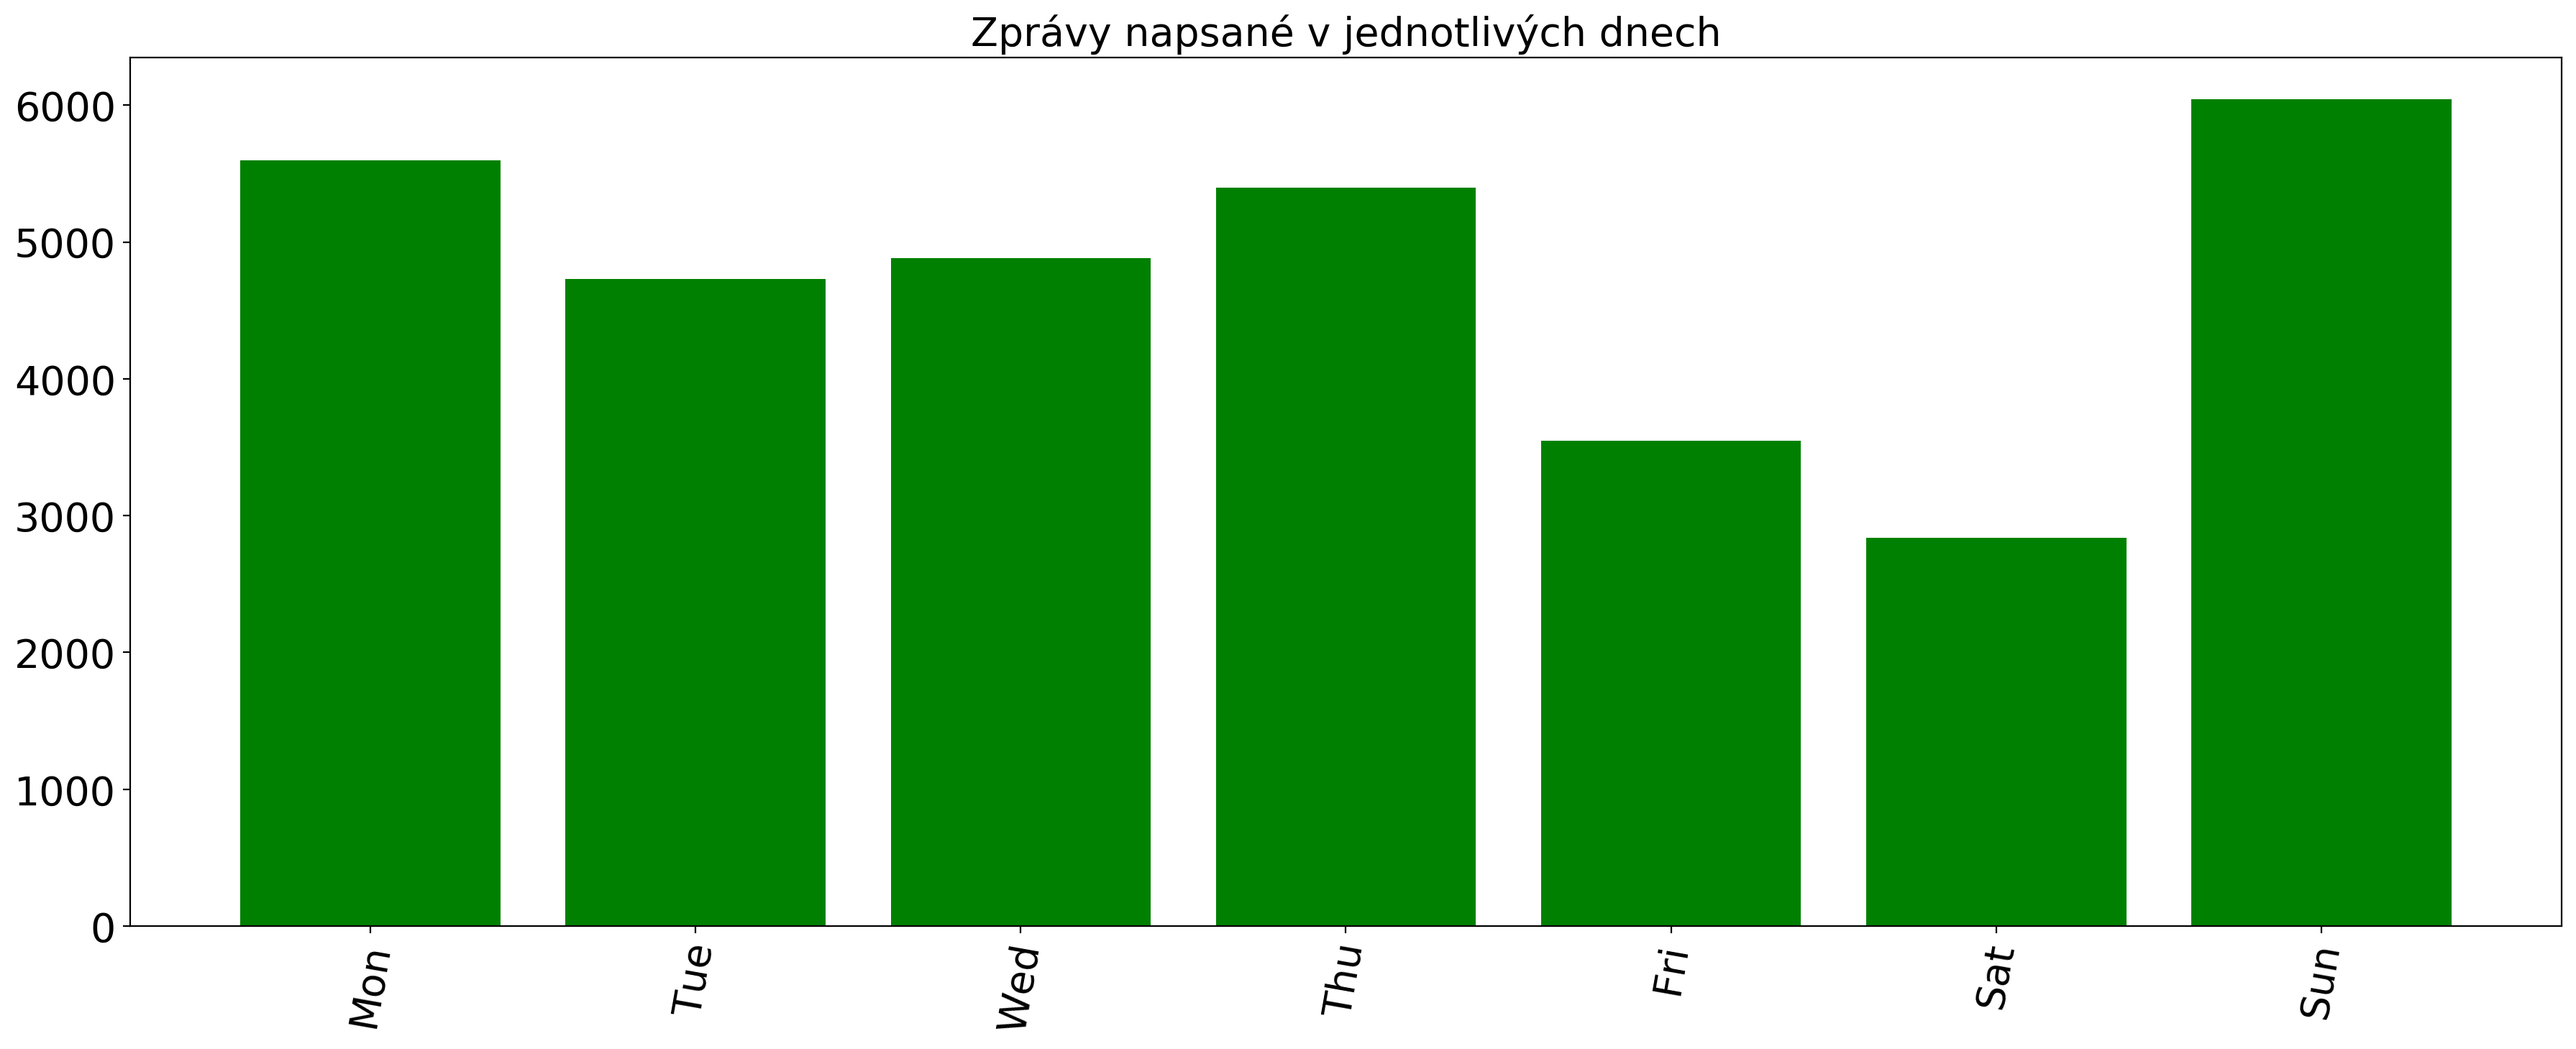
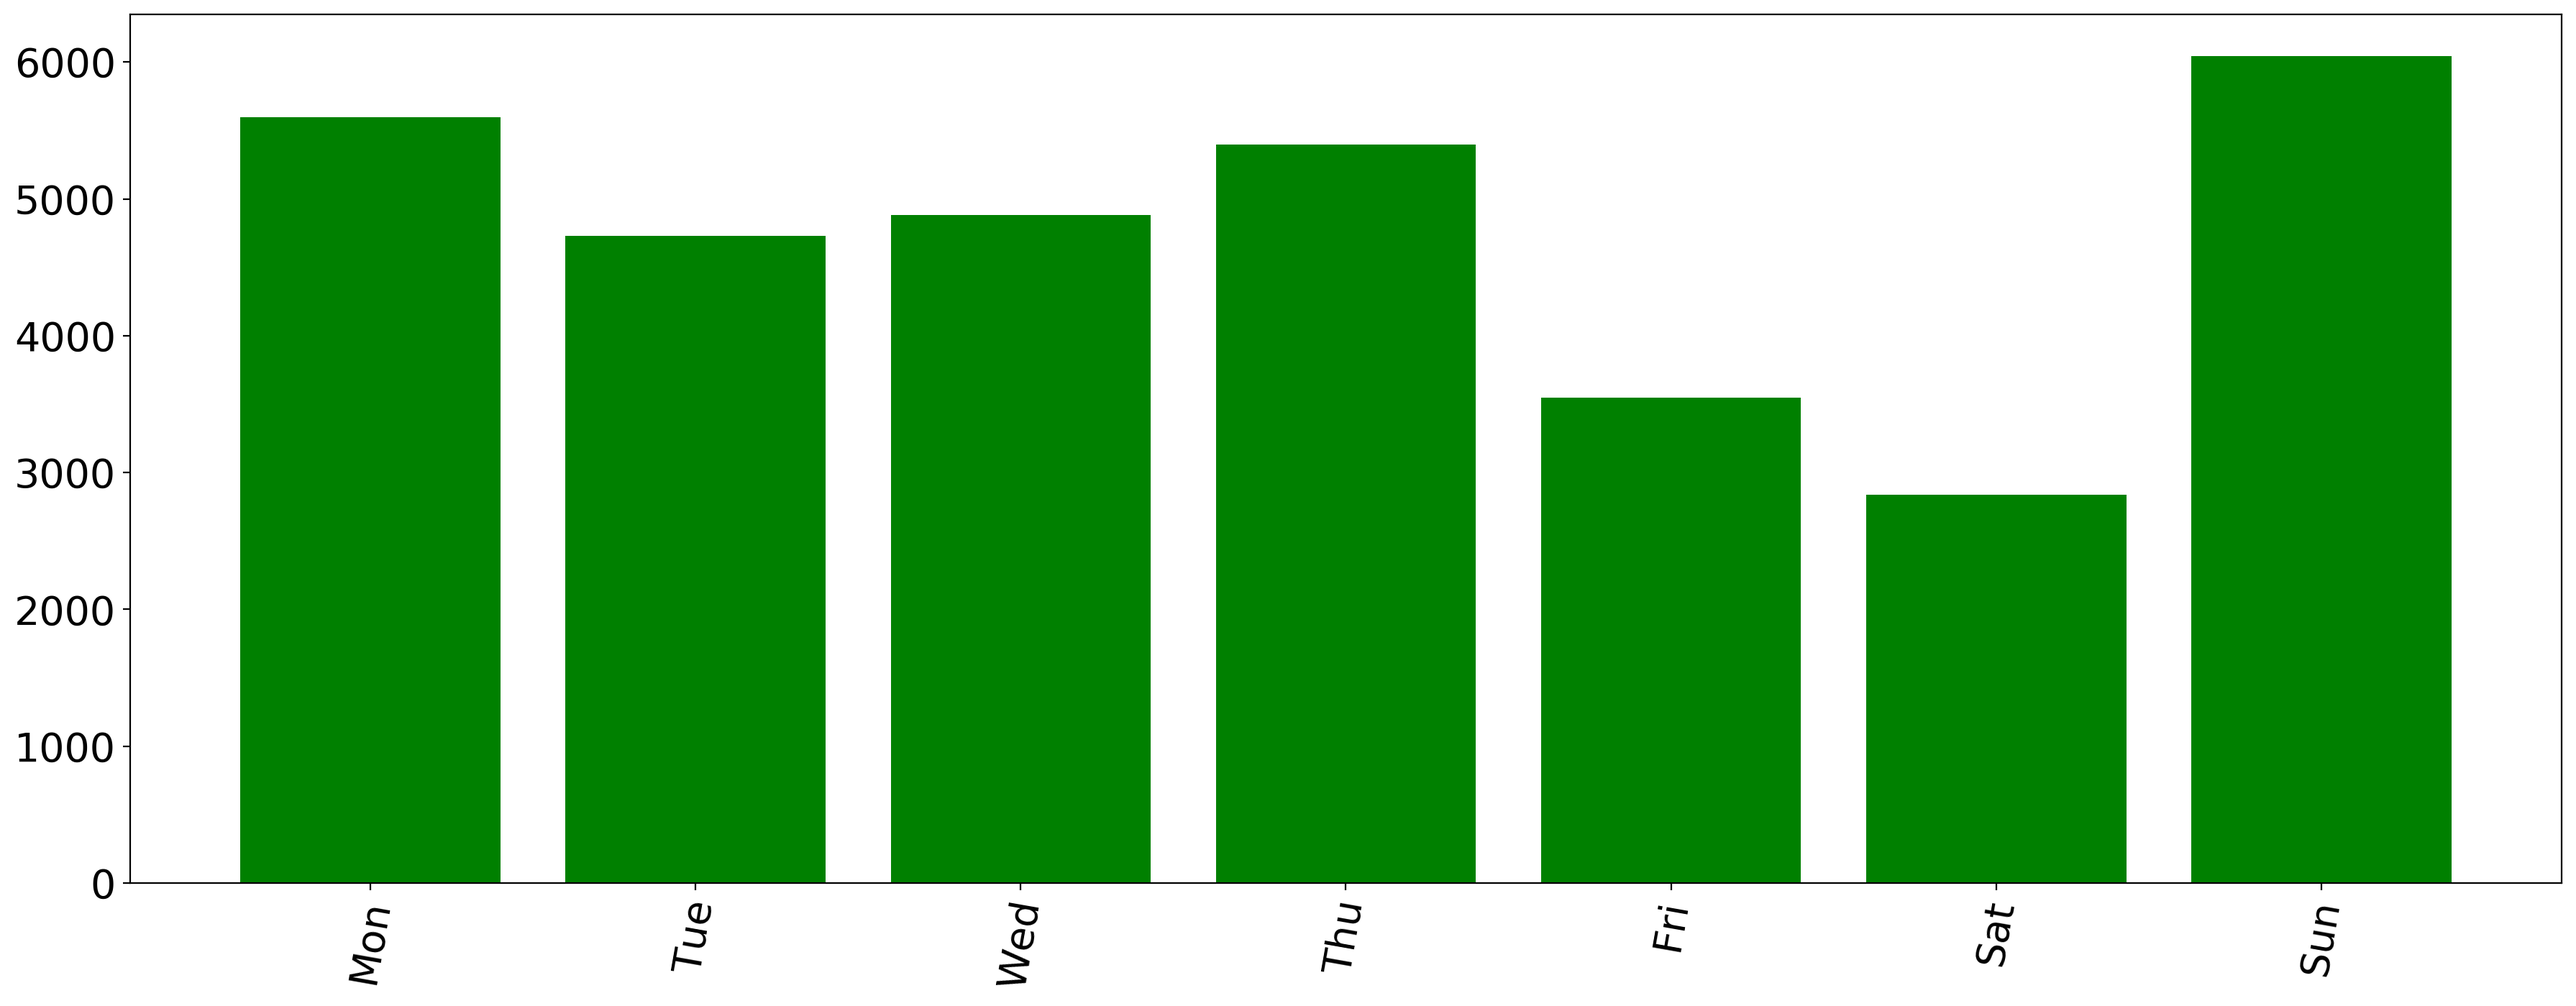
remove graph embedded titles

diff --git a/index.md b/index.md
@@ -4,13 +4,13 @@ title: Společenstvo Krabů
 description: ANALÝZA ZPRÁV
 ---
 
-<h2 align="center">Zprávy napsané v daným člověkem</h2>
+<h2 align="center">Zprávy napsané daným člověkem</h2>
 
 ![zpravy podle jmena](images/jmena.png)
 
 <hr/>
 
-<h2 align="center">Zprávy napsané v daným člověkem 2</h2>
+<h2 align="center">Zprávy napsané daným člověkem 2</h2>
 
 <p align="center">
     <img alt="zpravy za mesic" src="images/jmena_pie.png">
